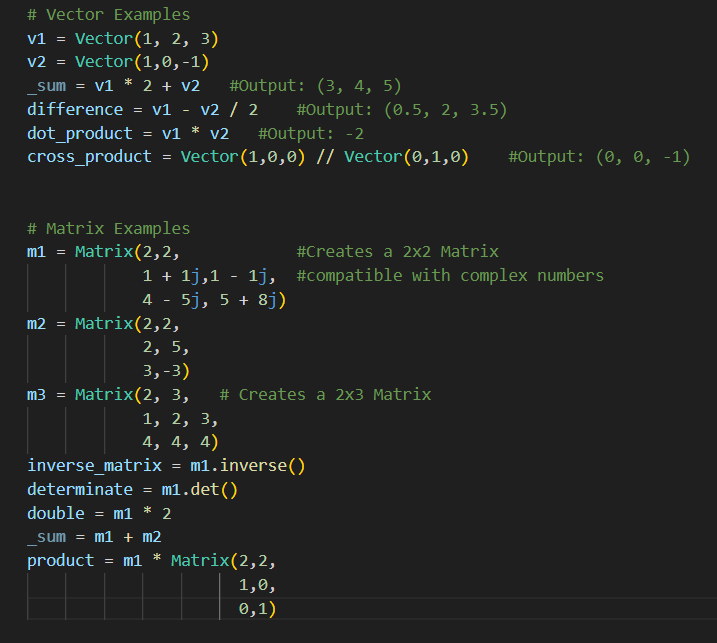
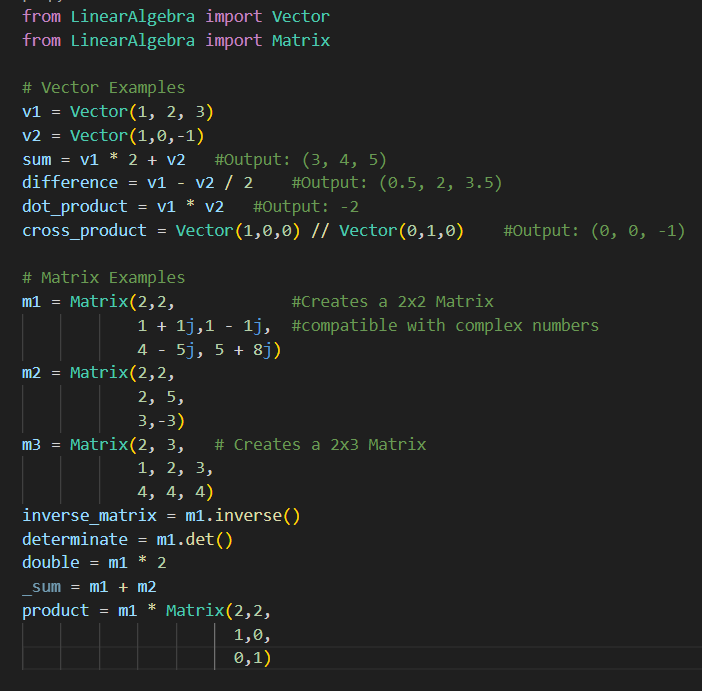
changed example

diff --git a/LinearAlgebra.py b/LinearAlgebra.py
@@ -221,7 +221,7 @@ class Vector:
         if isinstance(rh, Vector):
             # Dot Product
             assert (len(self.vec) == len(rh.vec)), "ERROR: Both vectors must be the same size."
-            return __builtins__.sum(list((self.vec[i] * rh.vec[i]) for i in range(len(self.vec))))
+            return sum(list((self.vec[i] * rh.vec[i]) for i in range(len(self.vec))))
         else:
             # Rh type is scalar
             return Vector(*((c*rh) for c in self.vec))
@@ -281,30 +281,3 @@ class Vector:
             if orthoVector.len() > 0:
                 orthoVectors.append(orthoVector.normalize())
         return orthoVectors
-
-
-# Vector Examples
-v1 = Vector(1, 2, 3)
-v2 = Vector(1,0,-1)
-sum = v1 * 2 + v2   #Output: (3, 4, 5)
-difference = v1 - v2 / 2    #Output: (0.5, 2, 3.5)
-dot_product = v1 * v2   #Output: -2
-cross_product = Vector(1,0,0) // Vector(0,1,0)    #Output: (0, 0, -1)
-
-# Matrix Examples
-m1 = Matrix(2,2,            #Creates a 2x2 Matrix
-            1 + 1j,1 - 1j,  #compatible with complex numbers
-            4 - 5j, 5 + 8j)
-m2 = Matrix(2,2,
-            2, 5,
-            3,-3)
-m3 = Matrix(2, 3,   # Creates a 2x3 Matrix
-            1, 2, 3,
-            4, 4, 4)
-inverse_matrix = m1.inverse()
-determinate = m1.det()
-double = m1 * 2
-_sum = m1 + m2 
-product = m1 * Matrix(2,2,
-                      1,0,
-                      0,1)
